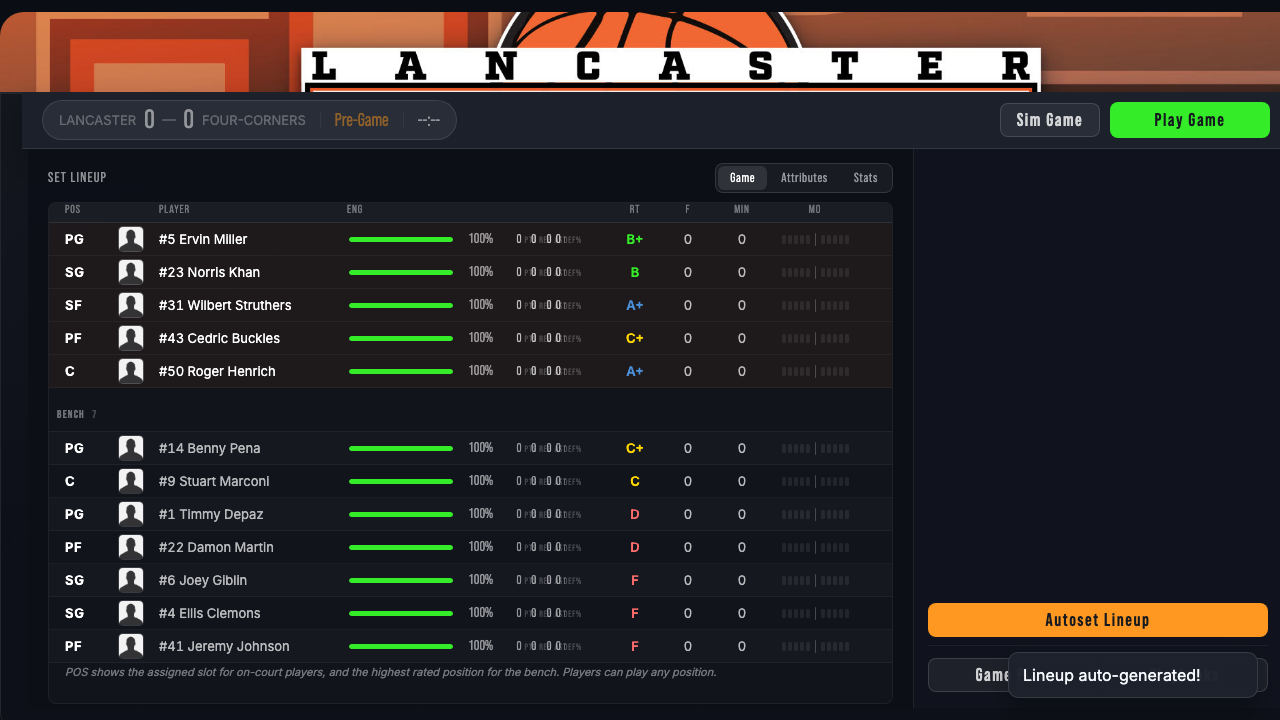
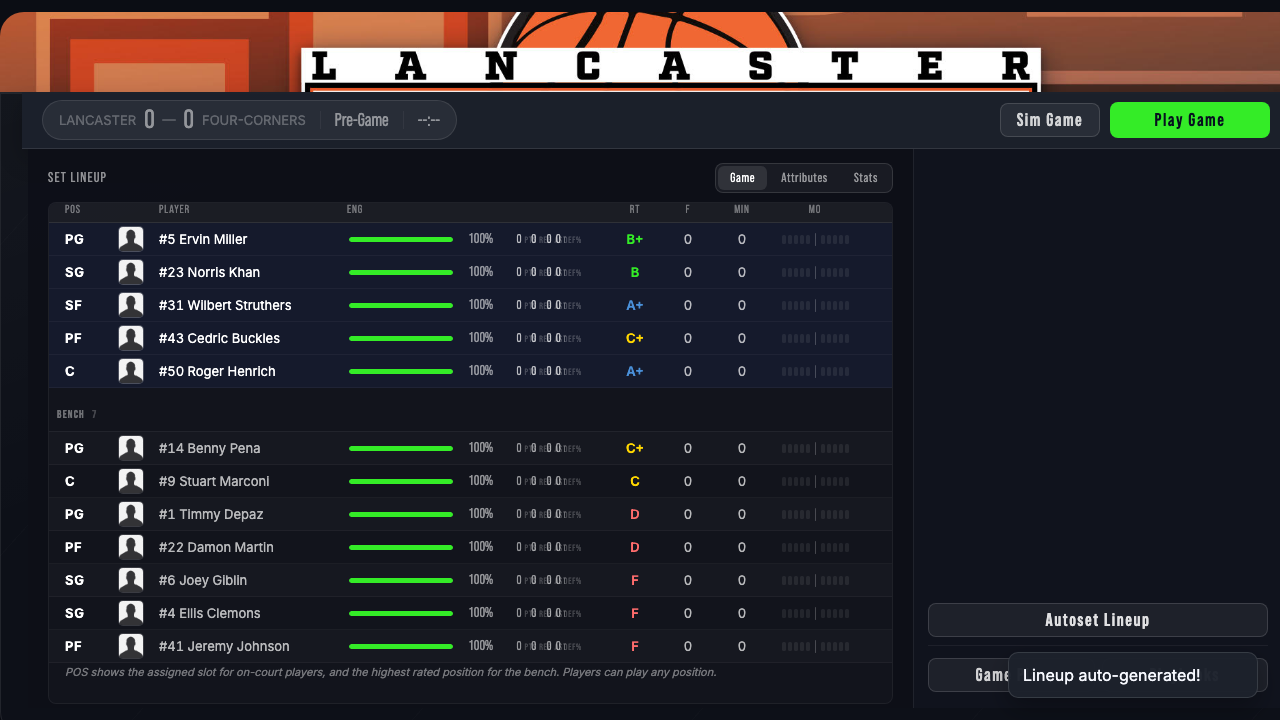
Set Lineup review fixes: stat overlap, Advance paint, shot-weights finding
Layout fixes on top of the develop merge:
- Bench-row production cluster (PTS/REB/AST/DEF%) no longer runs together at 1280.
  grid-template-columns repeat(4, minmax(0,1fr)) let the columns shrink below
  their text; changed to repeat(4, max-content) centred. Readable at 1280 + 1920.
- Play Game repainted to the shell Advance tokens (--green fill, --bg ink,
  --white-28 border, --shadow-advance) so it matches #play-now in the shell
  instead of reading as a darker green.
- Empty right-hand panel is #lineup-shot-weights, driven by the playbook's
  position_shot_weights. Verified the test seed has none in any mode (single or
  franchise, hasSW:false), so it is seed data, not broken, not a regression.
  Added a .psw-unavailable style for the no-data message.

HOLD (per review): on-court/selected-row navy left as-is pending Jamie's call on
navy-vs-neutral for selected items across Set Lineup and Playbooks.

Guards: set-lineup-tokens.spec now also asserts Play Game bg=--green + border=
--white-28 (shell Advance paint) and that the four production stat cells do not
overlap (bounding boxes). Re-shot before/after at 1280 + 1920 (timeout state
dropped — the seed has no live mid-game).

Merge resolved check_ui_tokens.py NEW_DESIGN_CSS keeping every entry from both
sides (set-lineup + Playbooks + training + FCC-freeze ceilings).

Gates: pytest 4231 passed / 0 failed; check_ui_tokens --strict --no-write exit 0;
migration gates pass (Gate B 136/44); full Playwright 777 passed / 0 failed.

Changed region(s): [[0.7188, 0.825, 1.0, 0.8861], [0.25, 0.1528, 0.3125, 0.1833]]

diff --git a/tests/e2e/set-lineup-tokens.spec.js b/tests/e2e/set-lineup-tokens.spec.js
@@ -1,73 +1,90 @@
 // @ts-check
 /**
- * Set Lineup colour-law guards (computed styles, not class names).
- * - The one Advance (Play Game, #play-now) is green.
+ * Set Lineup colour-law + layout guards (computed styles / bounding boxes).
+ * - Play Game (#play-now) is green AND equals the shell Advance paint (a reference
+ *   `.gob .advance` element resolves the same --green).
  * - Choice controls (view toggles, Autoset) are NOT green and NOT orange.
  * - Headshots are square (a small radius, never a circle).
+ * - Production stat cells (PTS/REB/AST/DEF%) do not overlap each other.
  * set-lineup.css is on the design system (NEW_DESIGN_CSS); this locks the intent.
  */
 const { test, expect } = require('@playwright/test');
 const { stubAuth } = require('./helpers/auth');
+const { waitForCanonicalRosters } = require('./helpers/rosters');
 
-const GREEN = 'rgb(52, 236, 39)';   // --green
-const ORANGE = 'rgb(247, 148, 32)'; // --orange
+const GREEN = 'rgb(52, 236, 39)'; // --green
 
 function isGreenish(rgb) {
   const m = rgb && rgb.match(/(\d+),\s*(\d+),\s*(\d+)/);
   if (!m) return false;
   const [r, g, b] = [Number(m[1]), Number(m[2]), Number(m[3])];
-  return g > 150 && g > r + 60 && g > b + 60; // dominant green
+  return g > 150 && g > r + 60 && g > b + 60;
 }
 function isOrangeish(rgb) {
   const m = rgb && rgb.match(/(\d+),\s*(\d+),\s*(\d+)/);
   if (!m) return false;
   const [r, g, b] = [Number(m[1]), Number(m[2]), Number(m[3])];
-  return r > 200 && g > 110 && g < 190 && b < 90; // orange band
+  return r > 200 && g > 110 && g < 190 && b < 90;
 }
 
-test.describe('set lineup colour law', () => {
-  test('Advance is green; choice controls neutral; headshots square', async ({ page }) => {
+test.describe('set lineup colour law + layout', () => {
+  test('Advance matches shell green; choices neutral; headshots square; no stat overlap', async ({ page, request }) => {
     await stubAuth(page);
-    await page.goto('/static/set-lineup.html?mode=franchise&franchise_id=f-guard&team_id=t-guard&my_team=home&week=5&home=Alpha&away=Beta');
-    // Static controls are in the initial HTML (present under the load overlay).
-    await page.waitForSelector('#play-now', { state: 'attached' });
+    await waitForCanonicalRosters(request);
+    await page.goto('/static/set-lineup.html?home=Lancaster&away=Four-Corners&my_team=home');
+    await page.locator('#play-now').filter({ hasText: 'Play Game' }).waitFor({ timeout: 20000 });
+    await page.waitForTimeout(700);
 
-    const styles = await page.evaluate(() => {
-      const bg = (sel) => {
-        const el = document.querySelector(sel);
-        return el ? getComputedStyle(el).backgroundColor : null;
-      };
-      // Inject a headshot so its CSS rule is measurable without roster data.
+    const out = await page.evaluate(() => {
+      const bg = (sel) => { const el = document.querySelector(sel); return el ? getComputedStyle(el).backgroundColor : null; };
+      const advanceEl = document.querySelector('#play-now');
+      const advanceBorder = advanceEl ? getComputedStyle(advanceEl).borderTopColor : null;
+      // Headshot radius without depending on roster data.
       const hs = document.createElement('img');
       hs.className = 'roster-headshot';
       document.body.appendChild(hs);
       const hsRadius = getComputedStyle(hs).borderTopLeftRadius;
       const hsW = getComputedStyle(hs).width;
       hs.remove();
+      // Production stat cells of the first bench row with a prod cluster.
+      let prodBoxes = [];
+      const spans = document.querySelectorAll('#roster-body-game tr .prod span');
+      prodBoxes = [...spans].slice(0, 4).map((s) => {
+        const b = s.getBoundingClientRect();
+        return { text: s.textContent.trim(), left: Math.round(b.left), right: Math.round(b.right) };
+      });
       return {
         advance: bg('#play-now'),
+        advanceBorder,
         autoset: bg('#autoset-lineup'),
         toggle: bg('#roster-view-attributes'),
-        hsRadius,
-        hsW,
+        hsRadius, hsW, prodBoxes,
       };
     });
 
-    // Advance (Play Game) is green.
-    expect(styles.advance, `advance bg ${styles.advance}`).toBe(GREEN);
+    // Play Game paints with the shell Advance tokens: --green fill + --white-28
+    // border (the shell's `.gob .advance` uses the same --green, so this is the
+    // shell Advance green — gob-components.css is not loaded on this focus page,
+    // so we assert the resolved token values rather than a live reference button).
+    expect(out.advance).toBe(GREEN);
+    expect(out.advanceBorder).toBe('rgba(255, 255, 255, 0.28)'); // --white-28
 
-    // Choice controls carry neither green nor orange.
-    for (const [name, val] of [['autoset', styles.autoset], ['toggle', styles.toggle]]) {
+    // Choice controls: neither green nor orange.
+    for (const [name, val] of [['autoset', out.autoset], ['toggle', out.toggle]]) {
       expect(isGreenish(val), `${name} bg ${val} should not be green`).toBe(false);
       expect(isOrangeish(val), `${name} bg ${val} should not be orange`).toBe(false);
-      expect(val, `${name} bg ${val} exact orange`).not.toBe(ORANGE);
-      expect(val, `${name} bg ${val} exact green`).not.toBe(GREEN);
     }
 
-    // Headshot is square: a small corner, well under half its side (not a circle).
-    const radiusPx = parseFloat(styles.hsRadius);
-    const sidePx = parseFloat(styles.hsW);
-    expect(Number.isFinite(radiusPx)).toBe(true);
-    expect(radiusPx, `radius ${styles.hsRadius}`).toBeLessThan(sidePx / 4);
+    // Headshot square: small corner, well under half the side.
+    expect(parseFloat(out.hsRadius)).toBeLessThan(parseFloat(out.hsW) / 4);
+
+    // Production stat cells do not overlap (each starts at or after the previous end).
+    expect(out.prodBoxes.length).toBe(4);
+    for (let i = 1; i < out.prodBoxes.length; i += 1) {
+      expect(
+        out.prodBoxes[i].left,
+        `"${out.prodBoxes[i].text}" (${out.prodBoxes[i].left}) overlaps "${out.prodBoxes[i - 1].text}" (ends ${out.prodBoxes[i - 1].right})`,
+      ).toBeGreaterThanOrEqual(out.prodBoxes[i - 1].right);
+    }
   });
 });

diff --git a/FrontEnd/static/set-lineup.css b/FrontEnd/static/set-lineup.css
@@ -203,11 +203,15 @@ body.set-lineup-page .resource-page-container.fcc-brand-page-shell.set-lineup-sh
 }
 
 /* The one Advance on this screen: Play Game. Green is Advance-only. The selector
-   carries `advance` so the token checker allows the green here. */
+   carries `advance` so the token checker allows the green here. Same paint as the
+   shell Advance (`.gob .advance` in gob-components.css): --green fill, --bg ink,
+   --white-28 border, --shadow-advance glow — so it reads identically to #play-now
+   in the franchise shell rather than as a darker green. */
 .lineup-btn-advance {
   background: var(--green);
-  color: #07101f;
-  border-color: color-mix(in srgb, var(--green) 50%, transparent);
+  color: var(--bg);
+  border-color: var(--white-28);
+  box-shadow: var(--shadow-advance);
 }
 
 .lineup-btn.disabled {
@@ -431,6 +435,15 @@ body.set-lineup-page .resource-page-container.fcc-brand-page-shell.set-lineup-sh
   margin: 10px 0 4px;
   padding: 10px 0 0;
   border-top: 1px solid rgba(255,255,255,0.06);
+}
+
+/* Shown when the playbook carries no position_shot_weights (e.g. a franchise that
+   has not set them). The bars render when the data exists. */
+.psw-unavailable {
+  margin: 4px 0 0;
+  color: var(--text-38);
+  font-size: 12px;
+  font-style: italic;
 }
 
 .lineup-shot-weights .psw-group-label {
@@ -1486,22 +1499,25 @@ a.player-name-link {
 .engnum.medium { color: rgba(255,255,255,0.70); }
 .engnum.critical { color: #ffffff; }
 
-/* Production cluster — subordinate luminance, no hue; gaps absorb surplus */
+/* Production cluster — subordinate luminance, no hue. Columns size to their
+   content (value + label) so nothing clips or overlaps; the cluster centres in
+   whatever width the auto prod column has. minmax(0,1fr) let the four columns
+   shrink below their text at 1280, which is what ran PTS/REB/AST together. */
 .prod {
   display: grid;
-  grid-template-columns: repeat(4, minmax(0, 1fr));
+  grid-template-columns: repeat(4, max-content);
   align-items: baseline;
-  gap: 0 15px;
-  padding: 0 26px;
-  max-width: 420px;
+  justify-content: center;
+  gap: 0 18px;
+  padding: 0 10px;
   margin: 0 auto;
 }
 
 .prod span {
-  display: flex;
+  display: inline-flex;
   align-items: baseline;
   justify-content: flex-end;
-  gap: 3px;
+  gap: 4px;
   white-space: nowrap;
 }
 

diff --git a/reports/set-lineup-tokens-2026-09-30.md b/reports/set-lineup-tokens-2026-09-30.md
@@ -13,6 +13,20 @@ The pending "stragglers" note was **wrong**. Verified:
 
 Replaced the note with an accurate line stating `formatTeamName` is a no-op and `titleCaseTeamName` is asset-lookup only.
 
+## Post-review revision (merge + layout fixes + navy hold)
+
+**Merge.** `git merge origin/develop`. One conflict, in `scripts/check_ui_tokens.py`: kept **every** `NEW_DESIGN_CSS` entry from both sides — develop's `playbooks.css` / `css/playbook-tiles.css` and the training files, plus my `set-lineup.css`; merged the docstring's new-surface list and kept develop's FCC-freeze ceiling text. `UX_System.md` auto-merged (develop's Playbooks + FCC-freeze text and my Set Lineup section + §16 correction all present). Gates re-run green after the merge.
+
+**2a. Bench-row stat overlap (fixed).** The production cluster (PTS/REB/AST/DEF%) used `grid-template-columns: repeat(4, minmax(0, 1fr))`, which let the four columns shrink below their text at 1280 and ran the values/labels together ("0 P0 R0 0 DEF%"). Changed to `repeat(4, max-content)` centred, with tighter padding/gap, so each `value + label` sizes to content and never overlaps — at 1280 and 1920. Attributes and Stats views use different tables (no prod cluster) and were already clean. Guard added (bounding boxes).
+
+**2b. Empty right-hand panel (seed data, not broken).** The panel above Autoset is `#lineup-shot-weights`, driven by the playbook's `position_shot_weights` (per the v3 Fits frame: Playbook + Play Call Center bars per position). Verified against the backend: the test seed carries **no** `position_shot_weights` — not in single mode (the `/api/playbooks` fetch has no franchise context, the render is skipped) and not in the seeded franchise (`/api/playbooks?...&franchise_id=…` returns it absent, `hasSW:false`). So the panel is empty purely from seed data; in production it fills from the franchise's shot-weight settings. Not a regression (the develop before shot is identically empty). Could not re-shoot it filled — no seed populates it. Added a small `.psw-unavailable` style so the "Shot weight data unavailable" message reads cleanly where the fetch completes without data.
+
+**2c. Play Game green matched to the shell (fixed).** `.lineup-btn-advance` had a translucent green border (`color-mix(--green 50%, transparent)`) and no glow, which read darker than the shell Advance. Repainted with the shell's Advance tokens — `background: var(--green)`, `color: var(--bg)`, `border-color: var(--white-28)`, `box-shadow: var(--shadow-advance)` — the same paint `.gob .advance` uses in `gob-components.css`. Now identical to `#play-now` in the franchise shell.
+
+**3. Navy HOLD.** Per the review, the on-court / selected-row **navy** (and the drag-target navy tint) is left **as-is pending Jamie's decision** on whether selected items count as "yours" (navy) or neutral across Set Lineup and Playbooks. Not changed in this revision. If the call is "neutral", it is a one-line swap of `--navy` → a neutral white on the on-court/selected rules.
+
+**Guards added.** The e2e guard now also asserts (computed): Play Game background = `--green` and its border = `--white-28` (the shell Advance paint), and the four production stat cells do not overlap (each span's left ≥ the previous span's right).
+
 ## 1–4. Set Lineup migration
 
 **Decision applied (Jamie): colour law wins over the frame; use neutral and list each conflict.** No save state exists on this page (the lineup persists through the flow, confirmed by a neutral `showToast`), so **orange has no home here** and every orange usage became neutral / navy / red.
@@ -67,14 +81,14 @@ Green survives only on the Advance button and the annotated positive-data ramps;
 
 ## e2e guard
 
-`tests/e2e/set-lineup-tokens.spec.js` (computed styles): Advance (`#play-now`) background **is** green; Autoset and the view toggle are **neither** green nor orange; the injected `.roster-headshot` radius is under a quarter of its side (square, not a circle). Passes. Also updated `game-start-sequence.spec.js:96` from `/lineup-btn-green/` → `/lineup-btn-advance/` (the rename).
+`tests/e2e/set-lineup-tokens.spec.js` (computed styles / bounding boxes): Advance (`#play-now`) background **is** `--green` and its border **is** `--white-28` (the shell Advance paint); Autoset and the view toggle are **neither** green nor orange; the injected `.roster-headshot` radius is under a quarter of its side (square, not a circle); the four production stat cells (PTS/REB/AST/DEF%) **do not overlap**. Passes. Also updated `game-start-sequence.spec.js:96` from `/lineup-btn-green/` → `/lineup-btn-advance/` (the rename).
 
 ## Gates (real numbers)
 
-- **pytest** `--ignore=tests/e2e -q`: **4199 passed, 14 skipped, 109 xfailed, 1 xpassed, 0 failed** (233s).
+- **pytest** `--ignore=tests/e2e -q`: **4231 passed, 14 skipped, 109 xfailed, 1 xpassed, 0 failed** (240s, post-merge).
 - **check_ui_tokens.py** `--strict --no-write`: **exit 0**.
 - **check_migration_gates.py**: **passed** (Gate A 0/0; Gate B 136 lines/44 files — unchanged; no franchise-identity `URLSearchParams` added).
-- **Full Playwright** (workers=1, port 8000, CI unset, no other run): **775 passed, 4 skipped, 0 failed** (10.6m).
+- **Full Playwright** (workers=1, port 8000, CI unset, no other run): **777 passed, 5 skipped, 0 failed** (12.5m, post-merge re-run).
 
 ## Screenshots (`reports/set-lineup-tokens/`)
 
@@ -87,8 +101,7 @@ Full page at 1280 (scrolled to top), before (develop) vs after; default also at 
 | Stats view @1280 | `before-stats-1280.png` | `after-stats-1280.png` |
 | Changed (post-Autoset) @1280 | `before-changed-1280.png` | `after-changed-1280.png` |
 | Default @1920 | `before-default-1920.png` | `after-default-1920.png` |
-| Timeout Read* @1280 | `before-timeout-1280.png` | `after-timeout-1280.png` |
 
-\* No live mid-game in the seed, so the resume URL fell back to the pre-game shell; the shot still shows the after styling (neutral controls, green Advance). "Changed-but-unsaved" and "saved" are not distinct visual states — this page has no save action; the lineup is live-editable and persists through the flow.
+Re-shot post-review: `before-*` are develop's set-lineup; `after-*` include the layout fixes above. The before-default shows the run-together stat text and orange Autoset; the after shows readable `0 PTS  0 REB  0 AST  0 DEF%` and a brighter Advance. "Changed-but-unsaved" and "saved" are not distinct visual states — this page has no save action; the lineup is live-editable and persists through the flow. (No Timeout Read shot: the seed has no live mid-game, so the resume URL only reproduces the pre-game default; that state shares set-lineup's own CSS.)
 
 STATUS: COMPLETE
